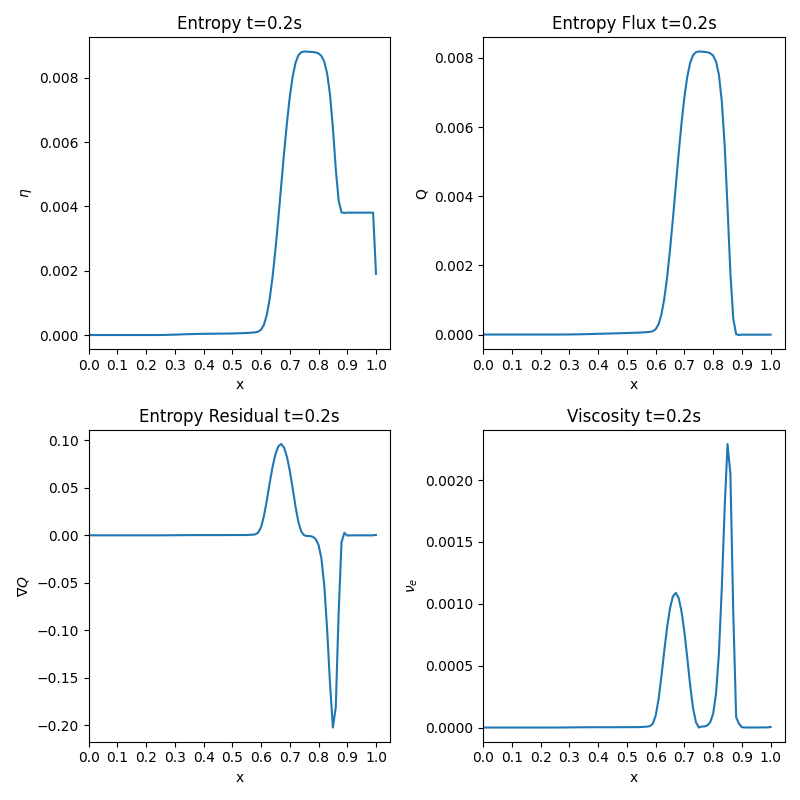
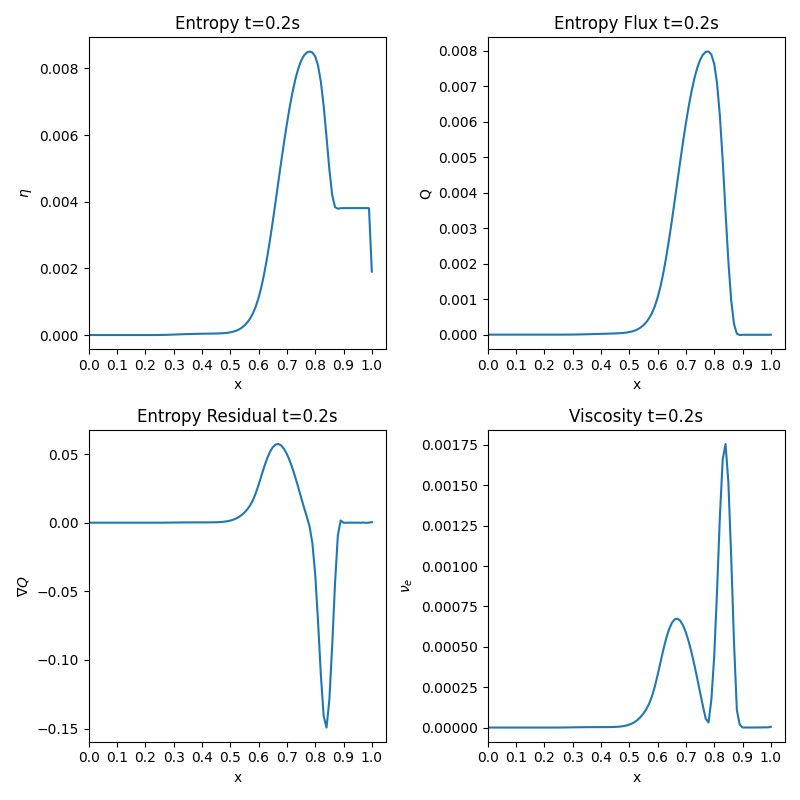
fixed problems with F_visc

diff --git a/functions.py b/functions.py
@@ -368,7 +368,6 @@ def assemble_TG_two_step(U_current, numel, xnode, N_mef, Nxi_mef, wpg, gamma, dt
 
     return M, F
 
-
 def assemble_TG_two_step_EV(U_current, numel, xnode, N_mef, Nxi_mef, wpg, gamma, dt, viscosity_e):
     '''
     (input) U_current tuple: current solution tuple
@@ -506,25 +505,29 @@ def assemble_TG_two_step_EV(U_current, numel, xnode, N_mef, Nxi_mef, wpg, gamma,
 
             kinematic_visc_gp = np.dot(N, kinematic_visc_el)
             rho_gpx = np.dot(Nx, rho_el)
-            m_gpx = np.dot(Nx, m_el)
-            rho_E_gpx = np.dot(Nx, rho_E_el)
+            # m_gpx = np.dot(Nx, m_el)
+            # rho_E_gpx = np.dot(Nx, rho_E_el)
 
             viscosity_gp = np.dot(N, viscosity_el)
             kinematic_visc_gp = np.dot(N, kinematic_visc_el)
             u_gpx = np.dot(Nx, u_el)
 
-            u_gp = np.dot(Nx, u_el)
+            # u_gp = np.dot(Nx, u_el)
             kappa_gp = np.dot(N, kappa_el)
             temp_gpx = np.dot(Nx, temp_el)
 
-            # F_visc_rho[isp] +=   - w_ig * (Nx * kinematic_visc_gp * rho_gpx)
-            # F_visc_m[isp] +=  - w_ig * (Nx * viscosity_gp * u_gpx)
+            nabla_u_dot_u_gp = np.dot(u_gpx, u_el)
+
+
+            F_visc_rho[isp] +=   - w_ig * (Nx * kinematic_visc_gp * rho_gpx)
+            F_visc_m[isp] +=  - w_ig * (Nx * viscosity_gp * u_gpx)
+            F_visc_rho_E[isp] += - w_ig * Nx * ((viscosity_gp * nabla_u_dot_u_gp + kappa_gp * temp_gpx))
+
             # F_visc_rho_E[isp] += - w_ig * Nx * ((viscosity_gp * u_gpx * u_gp + kappa_gp * temp_gpx))
 
-            F_visc_rho[isp] +=   - w_ig * (Nx * viscosity_gp * rho_gpx)
-            F_visc_m[isp] +=   - w_ig * (Nx * viscosity_gp * m_gpx)
-            F_visc_rho_E[isp] +=   - w_ig * (Nx * viscosity_gp * rho_E_gpx)
-
+            # F_visc_rho[isp] +=   - w_ig * (Nx * viscosity_gp * rho_gpx)
+            # F_visc_m[isp] +=   - w_ig * (Nx * viscosity_gp * m_gpx)
+            # F_visc_rho_E[isp] +=   - w_ig * (Nx * viscosity_gp * rho_E_gpx)
 
     return M, F, entropy, entropy_flux, entropy_res, viscosity_e, F_visc
 
